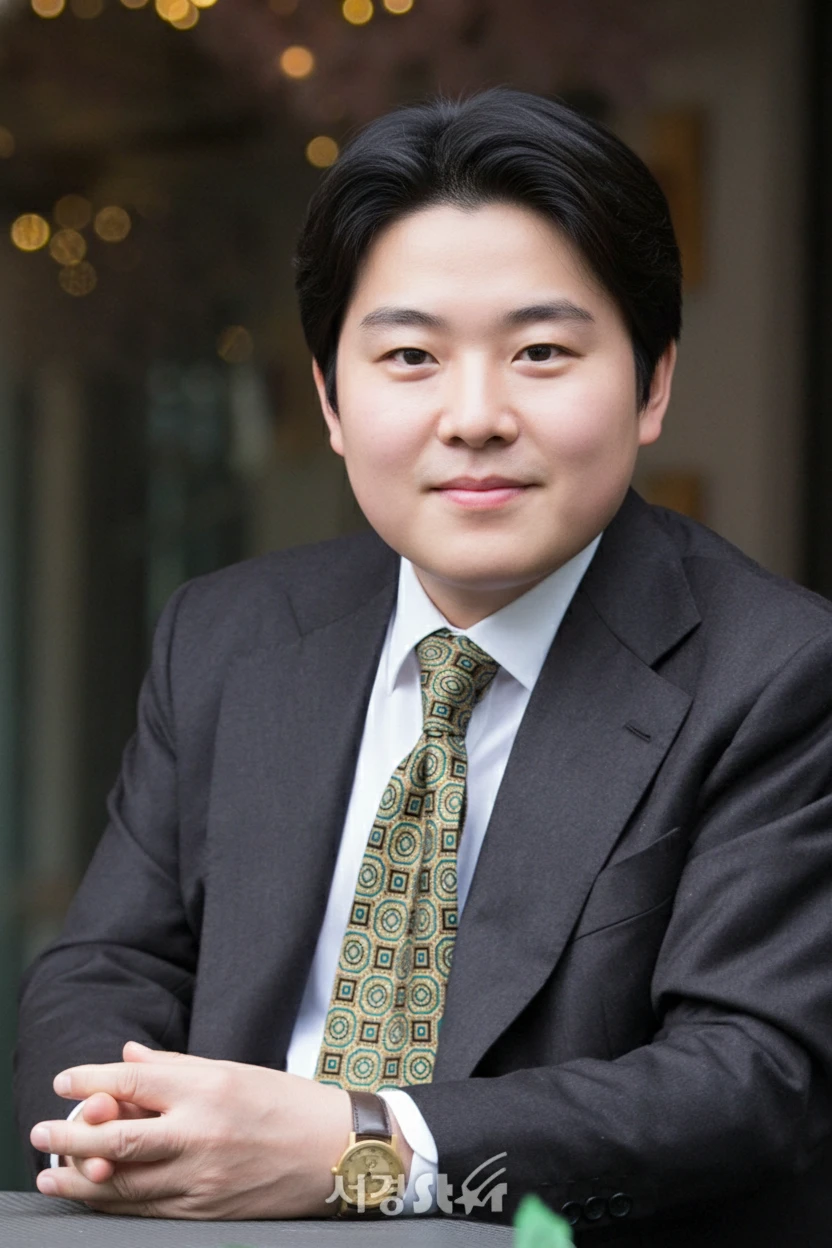
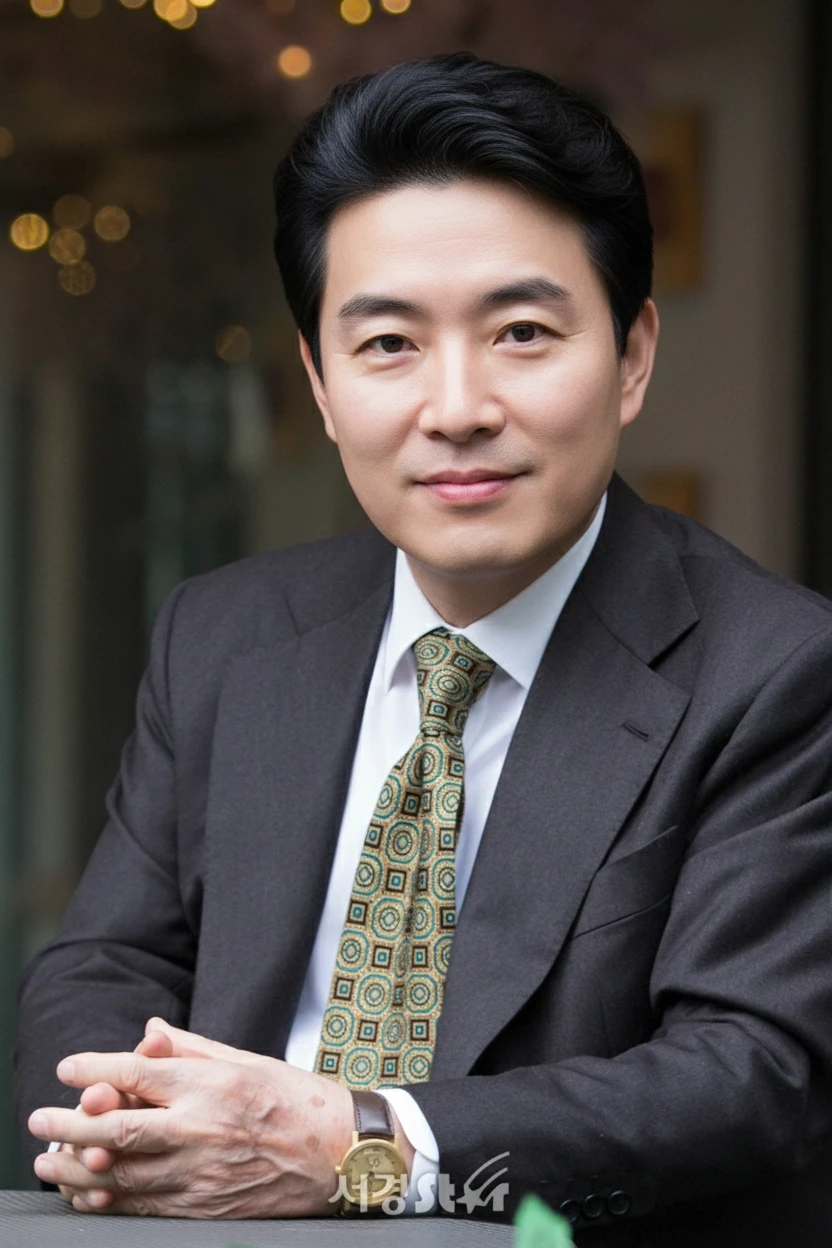
fix: 변경

diff --git a/face_age_gemini.py b/face_age_gemini.py
@@ -59,15 +59,12 @@ class GeminiAgeTransformer:
 
     def _get_fixed_requirements(self):
         """나이 변환 시 항상 유지해야 하는 고정적인 요구사항"""
-        return """
-        ⚠ 중요: 반드시 원본 인물의 얼굴 형태, 눈 모양, 코 형태, 입술 모양, 얼굴 윤곽을 정확히 유지해야 합니다.
-        다른 사람처럼 보이면 안 됩니다. 동일 인물이 나이만 든 것처럼 보여야 합니다.
-
-        고정 요구사항 (절대 변경 금지):
-        1. ✅ 얼굴 구조(뼈대), 눈·코·입 위치와 크기, 얼굴형, 눈썹 모양을 원본과 100% 동일하게 유지
-        2. ✅ 표정과 시선 방향도 원본과 동일하게 유지
-        3. ✅ 배경은 원본과 완전히 동일하게 유지
-        """
+        return """IMPORTANT: Maintain the person's identity while transforming their age.
+        - Keep the same basic face shape, facial bone structure, and overall proportions
+        - Keep the same expression and gaze direction
+        - Keep the background unchanged
+        - The result should look like the SAME PERSON, just at a different age
+        - However, transform ALL age-related features dramatically (skin, wrinkles, hair, etc.)"""
 
     def _load_age_prompt(self, age):
         """
@@ -121,13 +118,13 @@ class GeminiAgeTransformer:
         json_str = json.dumps(age_data, ensure_ascii=False, indent=2)
 
         # 프롬프트 생성
-        prompt = f"""
-🎯 목표: {target_age}대 특성 반영
+        prompt = f"""🎯 목표: {target_age}세로 변환
 
-다음 JSON 사양에 따라 변환하세요:
+다음 JSON 사양에 따라 정확하게 변환하세요:
 
 {json_str}
-"""
+
+매우 중요: 위 사양을 정확히 따라 {target_age}세처럼 보이도록 변환하세요."""
         return prompt
 
     def transform_age(self, image_path, target_age):
@@ -152,14 +149,14 @@ class GeminiAgeTransformer:
             fixed_reqs = self._get_fixed_requirements()
 
             # 프롬프트 생성: 고정 부분 + 가변 부분
-            prompt = f"""이 사진 속 인물을 변환해주세요.
+            prompt = f"""Transform this person in the image.
 
-            {fixed_reqs}
+{fixed_reqs}
 
-            {aging_effects}
+{aging_effects}
 
-            자연스럽지만 명확하게 {target_age}세처럼 보이는 이미지를 생성해주세요.
-            단, 얼굴의 핵심 특징(identity)은 절대 변경하지 마세요."""
+Generate an image where this person clearly and obviously looks exactly {target_age} years old.
+The transformation should be dramatic and convincing."""
 
             print(f"[Generate] 이미지 생성 중...")
 
@@ -179,9 +176,9 @@ class GeminiAgeTransformer:
                     )
                 ],
                 config=types.GenerateContentConfig(
-                    temperature=0.4,
+                    temperature=0.8,
                     top_p=0.95,
-                    top_k=20,
+                    top_k=40,
                     max_output_tokens=8192,
                     response_modalities=["IMAGE"]
                 )
@@ -266,7 +263,7 @@ if __name__ == "__main__":
         exit(1)
 
     # 나이 변환 실행
-    target_age = 10  # 10, 20, 30, 40, 50, 60, 70 중 선택
+    target_age = 20  # 10, 20, 30, 40, 50, 60, 70 중 선택
 
     print(f"[설정] 목표 나이: {target_age}세")
 
